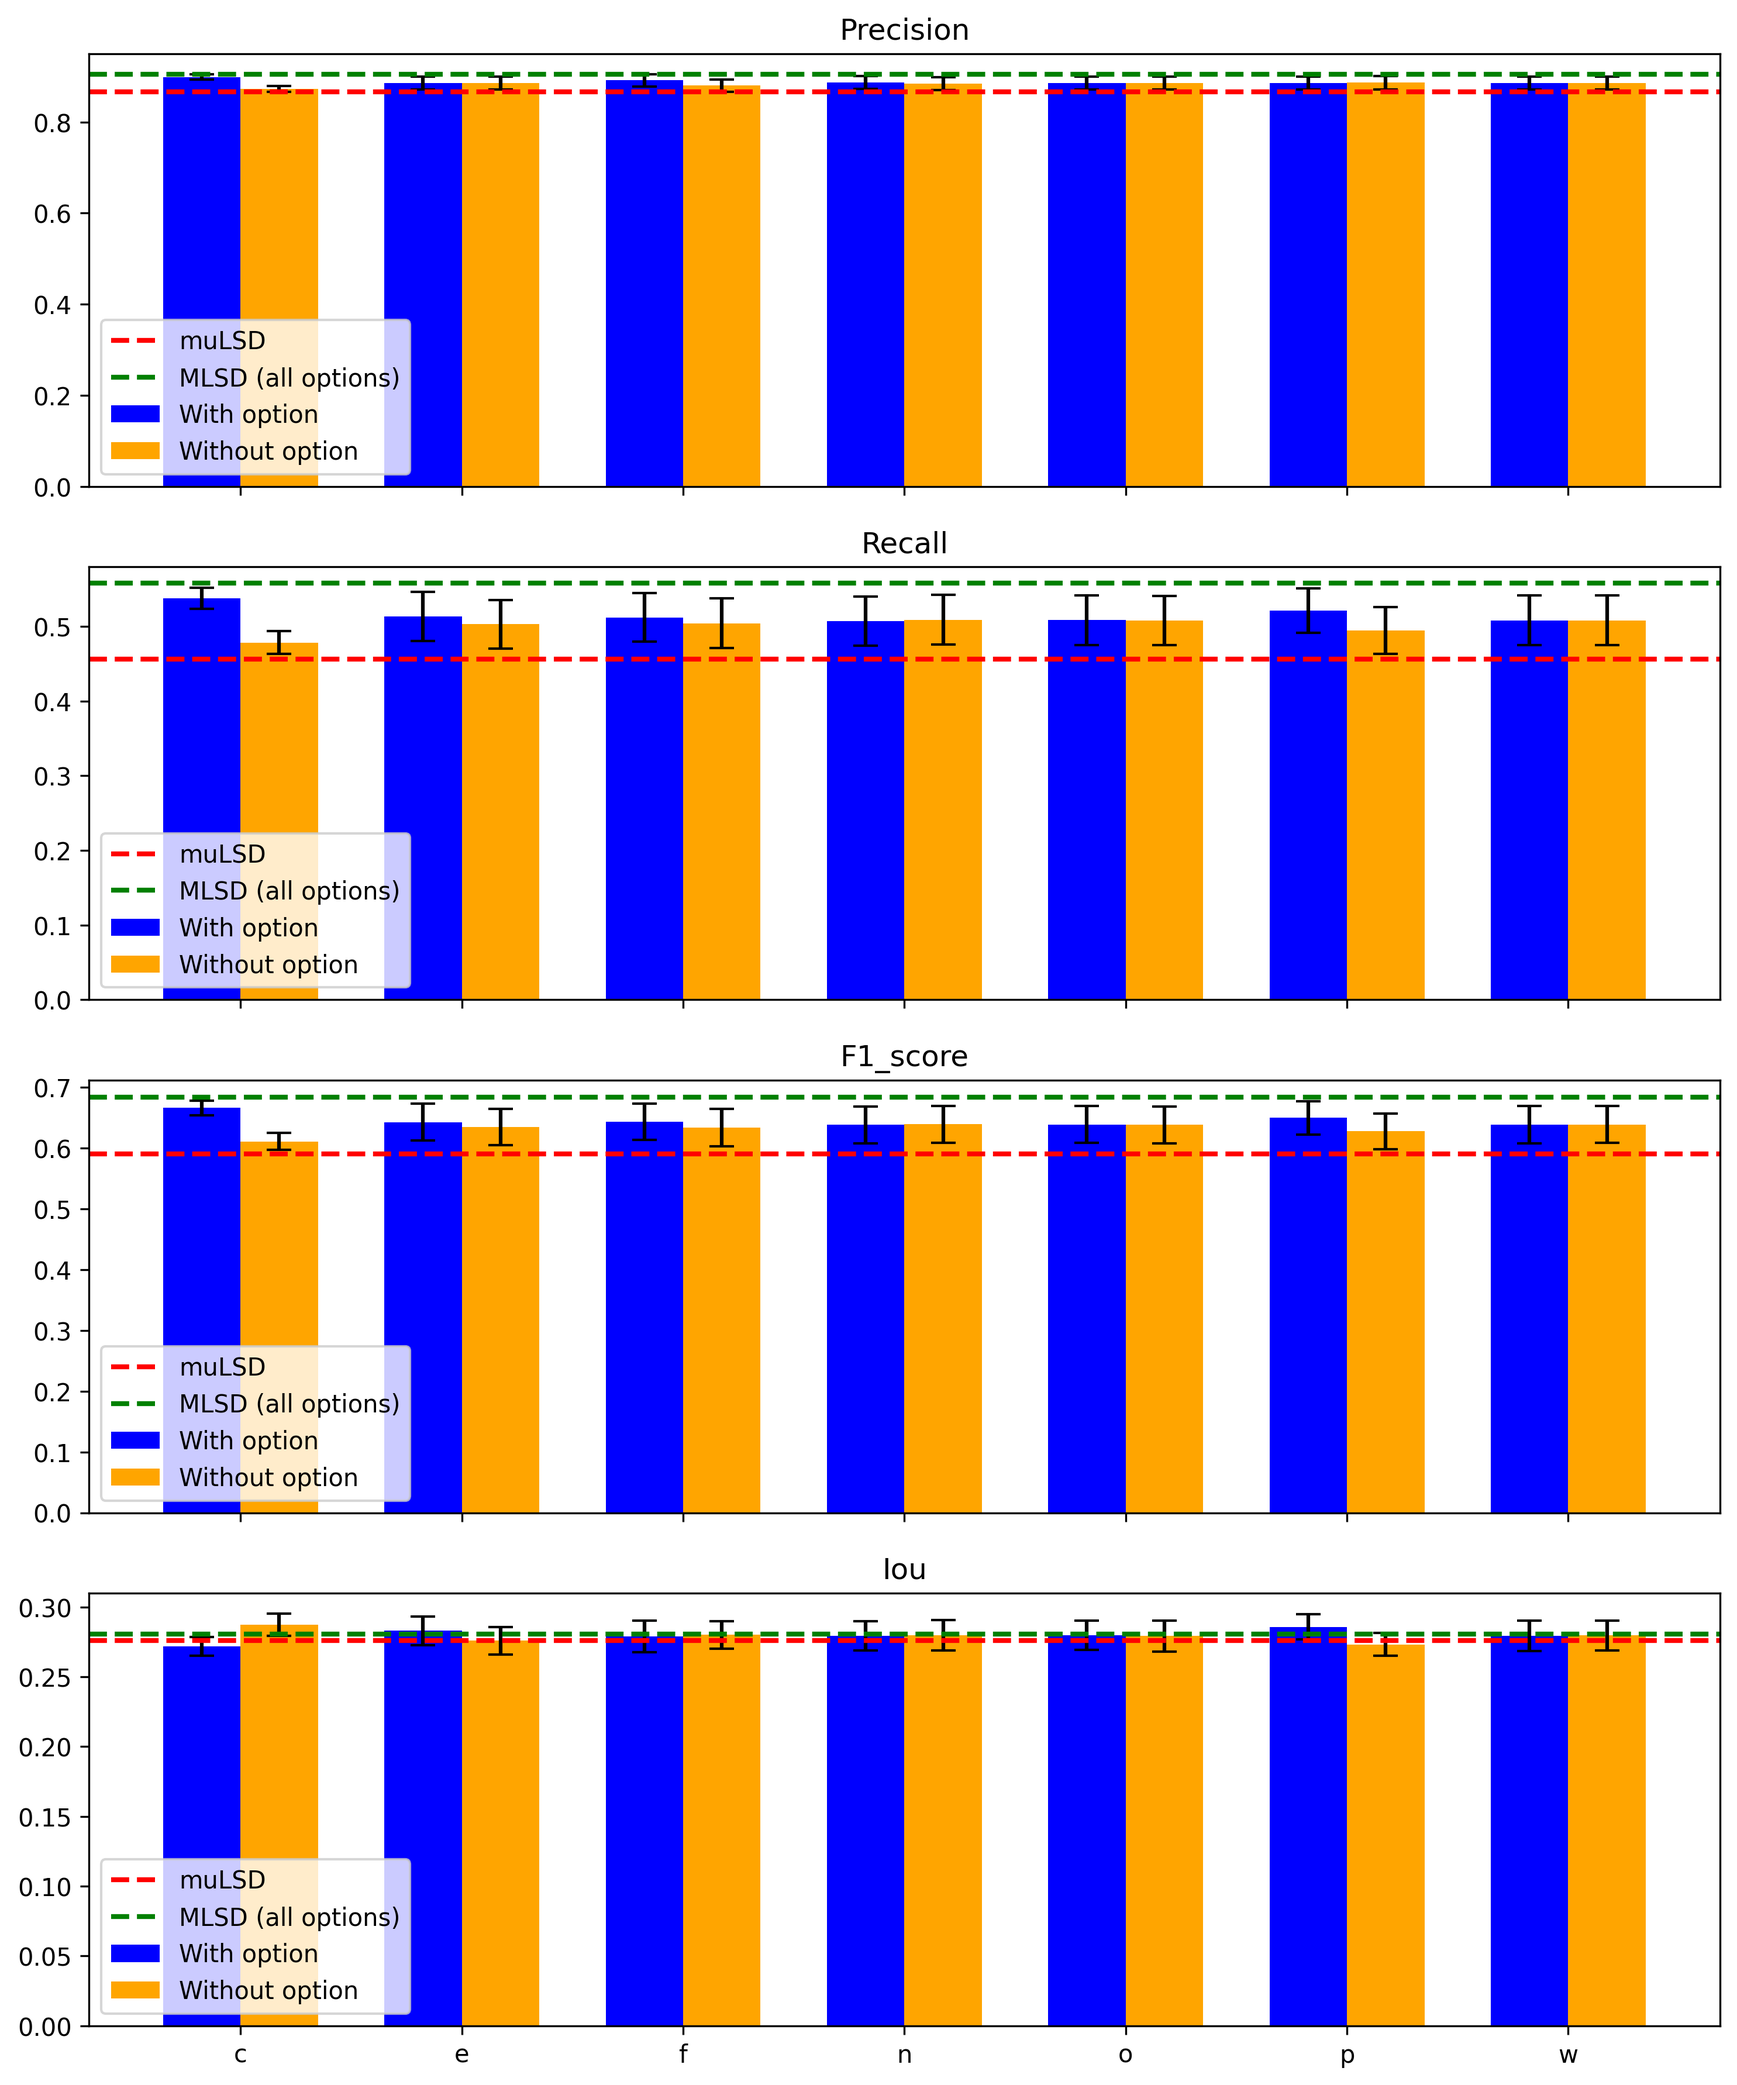
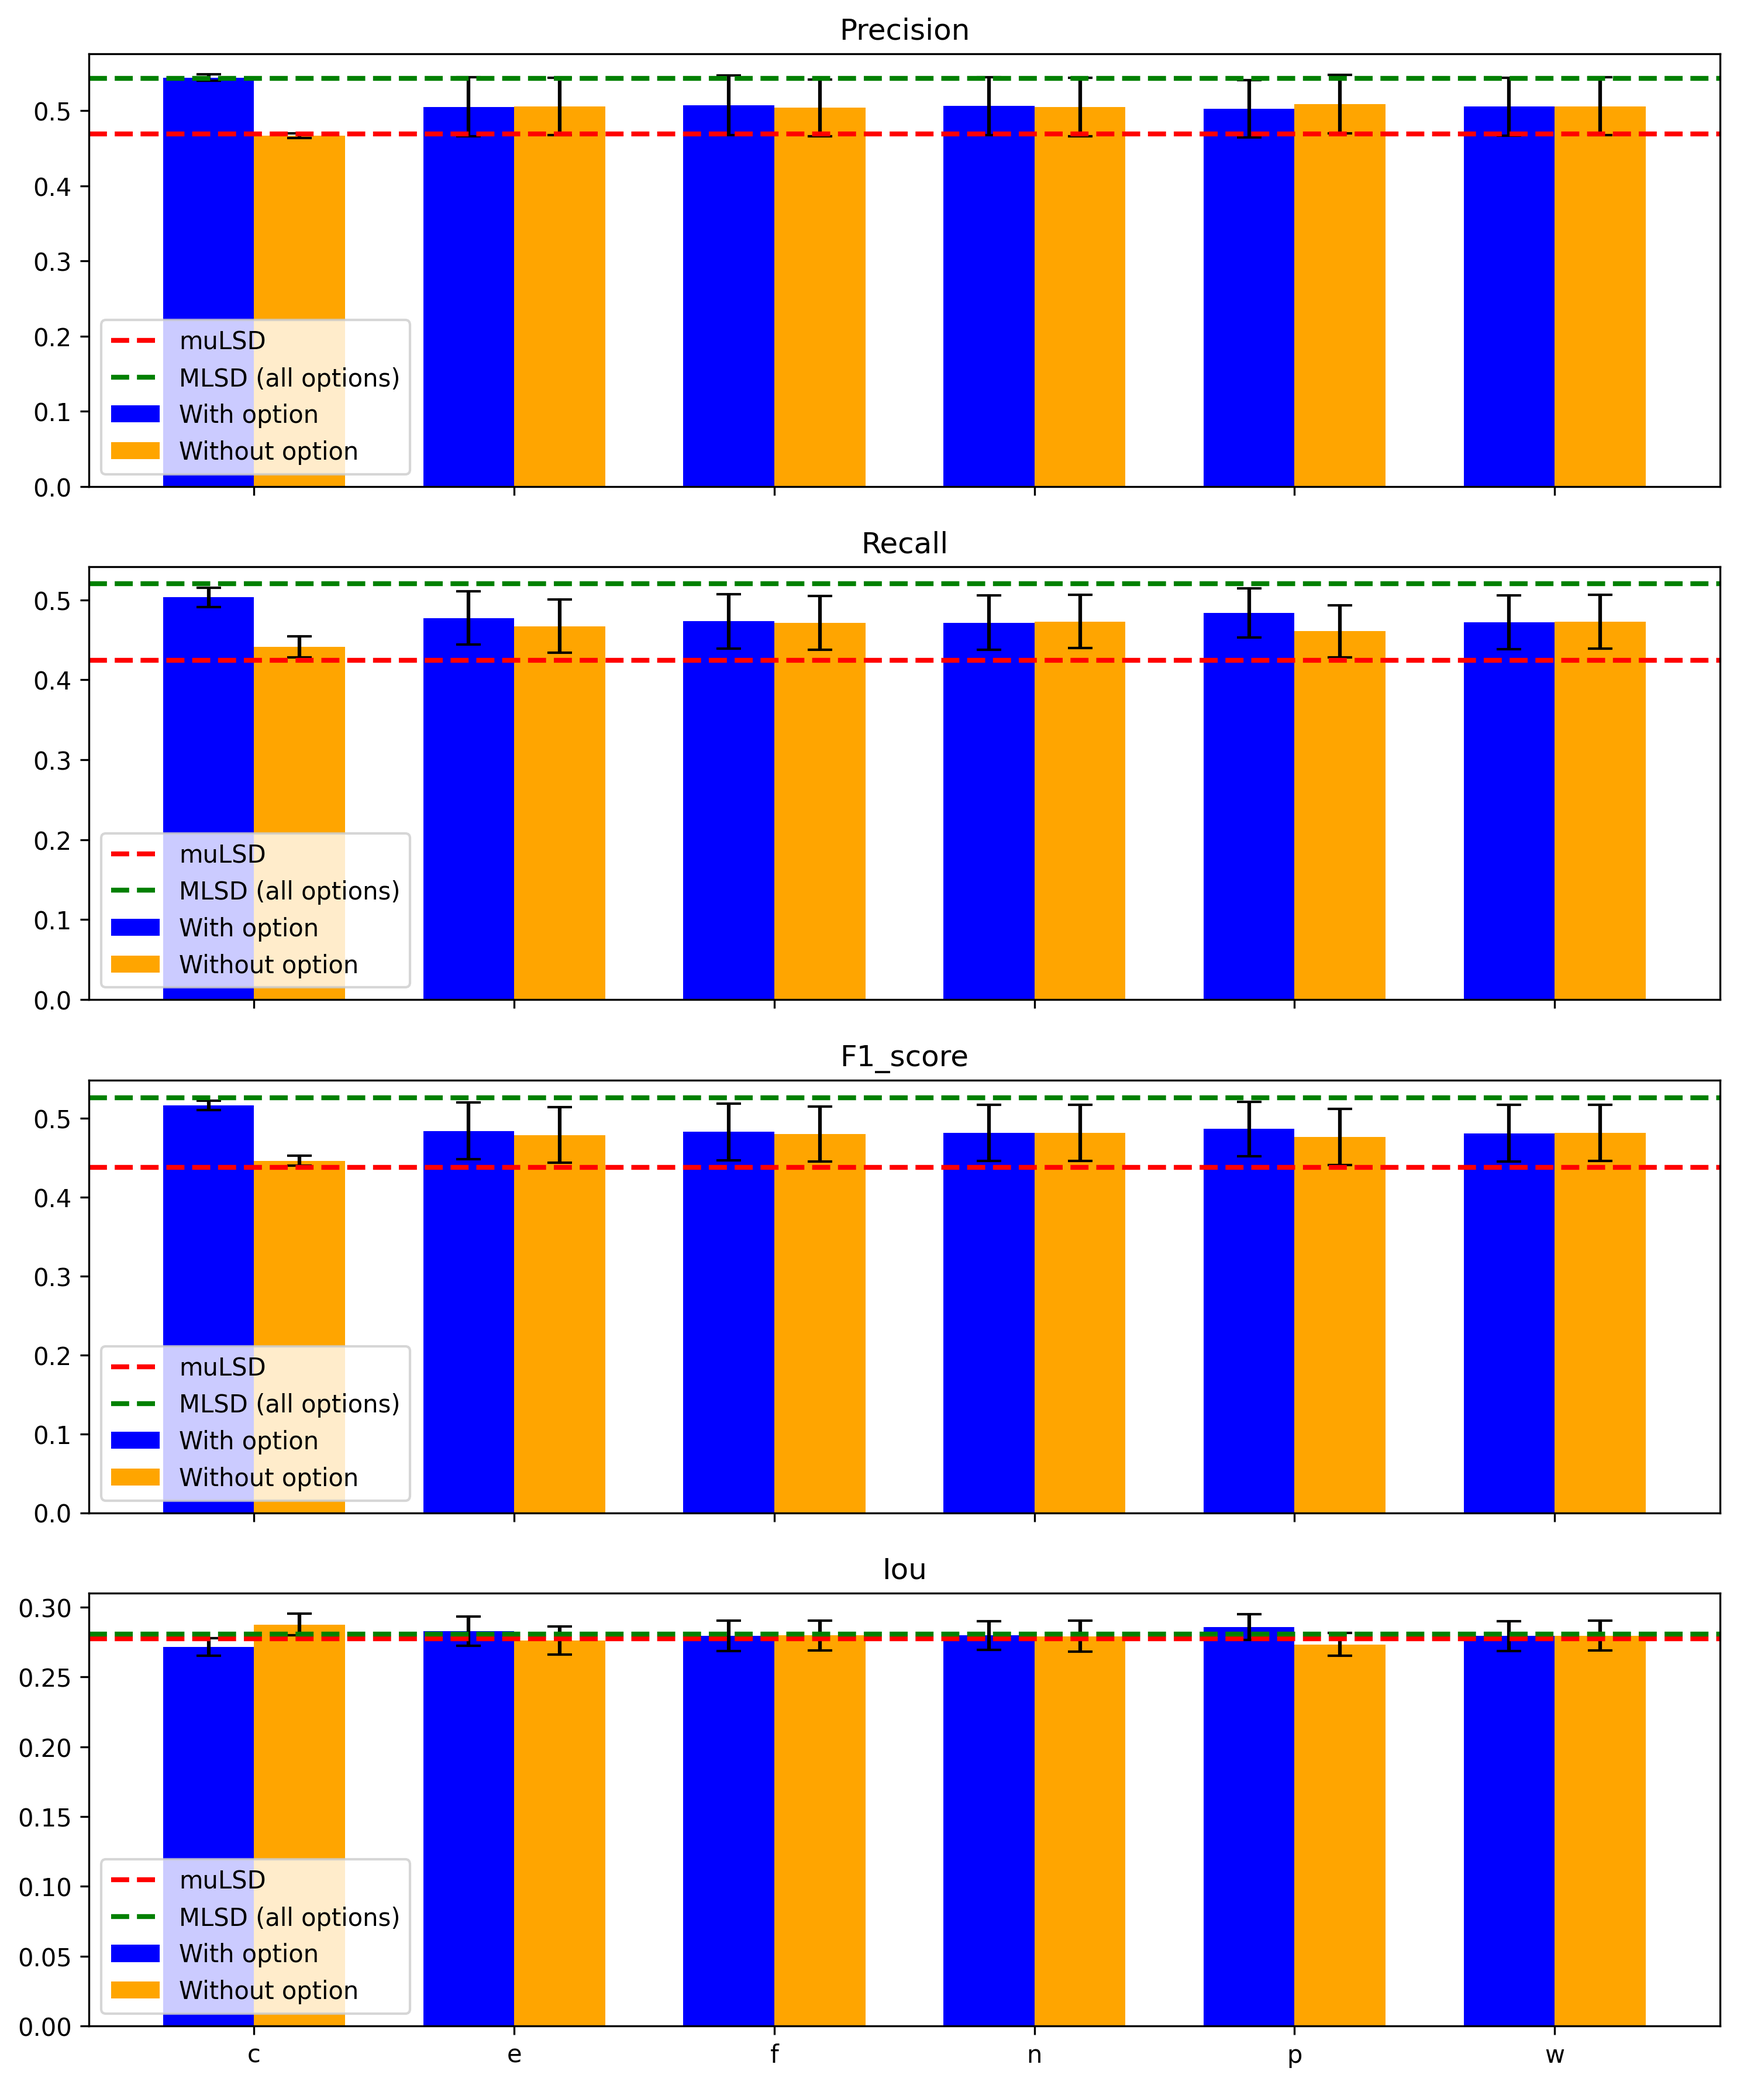
Enhance benchmark functionality by adding support for option 't' with numeric values, updating related scripts and configurations. Include new plotting for 't' values and modify README for clarity.

diff --git a/eval.py b/eval.py
@@ -6,7 +6,7 @@ import matplotlib.pyplot as plt
 from matplotlib.ticker import AutoMinorLocator
 import numpy as np
 
-from config import PATH_CURRENT_FOLDER  # type: ignore
+from config import OPTIONS, PATH_CURRENT_FOLDER  # type: ignore
 from loguru import logger
 
 from models import BenchmarkScore, Scores, ImageScores  # type: ignore
@@ -243,8 +243,10 @@ def plot_benchmark_ranges(benchmarks: list[BenchmarkScore]) -> None:
     fig.patch.set_facecolor("white")  # Set background to white
     plt.subplots_adjust(wspace=0.3, left=0.05, right=0.95, top=0.9, bottom=0.3)
 
-    # Collect average scores
-    avg_scores_dict = {bm.options: bm.average_scores() for bm in benchmarks}
+    # Collect average scores (we exclude 't' options here)
+    avg_scores_dict = {
+        bm.options: bm.average_scores() for bm in benchmarks if "t" not in bm.options
+    }
 
     for idx, metric in enumerate(metrics):
         ax = axes[idx]
@@ -428,8 +430,11 @@ def analyze_option_effects(benchmarks: list[BenchmarkScore]) -> None:
     unique_options_set = set[str]()
     for bm in benchmarks:
         unique_options_set.update(bm.options)
-    unique_options_list = sorted(unique_options_set)
-    logger.info(f"Unique options found: {unique_options_list}")
+    unique_option_letters_list = [
+        x for x in sorted(unique_options_set) if x in OPTIONS
+    ]  # Exclude t options
+
+    logger.info(f"Unique options found: {unique_option_letters_list}")
 
     # For each option, separate benchmarks into "with" and "without"
     metrics = ["precision", "recall", "f1_score", "iou"]
@@ -443,8 +448,10 @@ def analyze_option_effects(benchmarks: list[BenchmarkScore]) -> None:
             mulsd_scores = bm.average_scores()
             break
 
-    for option in unique_options_list:
+    for option in unique_option_letters_list:
         for bm in benchmarks:
+            if bm.options.startswith("t"):
+                continue  # Skip t options
             avg_scores = bm.average_scores()
             has_option = option in bm.options
             for metric in metrics:
@@ -458,7 +465,7 @@ def analyze_option_effects(benchmarks: list[BenchmarkScore]) -> None:
 
     # Compute mean and std for each option and metric
     summary: dict[str, dict[str, float | None]] = {}
-    for option in unique_options_list:
+    for option in unique_option_letters_list:
         summary[option] = {}
         for metric in metrics:
             with_values = results[option].get(f"{metric}_with", [])
@@ -489,7 +496,7 @@ def analyze_option_effects(benchmarks: list[BenchmarkScore]) -> None:
     # Plot results
     fig, axes = plt.subplots(len(metrics), 1, figsize=(10, 12), sharex=True)
     # Find MLSD: benchmark with all options activated
-    all_options_str = "".join(unique_options_list)
+    all_options_str = "".join(unique_option_letters_list)
     mlsd_scores: Scores | None = None
     for bm in benchmarks:
         if bm.options == all_options_str:
@@ -498,9 +505,9 @@ def analyze_option_effects(benchmarks: list[BenchmarkScore]) -> None:
 
     for i, metric in enumerate(metrics):
         ax = axes[i]
-        x = np.arange(len(unique_options_list))
+        x = np.arange(len(unique_option_letters_list))
         width = 0.35
-        for j, option in enumerate(unique_options_list):
+        for j, option in enumerate(unique_option_letters_list):
             with_mean = summary[option][f"{metric}_with_mean"]
             with_std = summary[option][f"{metric}_with_std"]
             without_mean = summary[option][f"{metric}_without_mean"]
@@ -550,7 +557,7 @@ def analyze_option_effects(benchmarks: list[BenchmarkScore]) -> None:
 
         ax.set_title(metric.capitalize())
         ax.set_xticks(x)
-        ax.set_xticklabels(unique_options_list)
+        ax.set_xticklabels(unique_option_letters_list)
         ax.legend()
     plt.tight_layout()
     out_file = "option_effects.png"
@@ -567,7 +574,9 @@ def plot_wilcoxon_results(
     unique_options_set = set[str]()
     for bm in benchmarks:
         unique_options_set.update(bm.options)
-    unique_options_list = sorted(unique_options_set)
+    unique_options_list = [
+        x for x in sorted(unique_options_set) if "t" not in x
+    ]  # Exclude t options
 
     metrics = ["precision", "recall", "f1_score", "iou"]
     p_values_dict: dict[str, dict[str, float]] = {metric: {} for metric in metrics}
@@ -599,16 +608,50 @@ def plot_wilcoxon_results(
     logger.success(f"Saved Wilcoxon p-values figure to {output_file}")
 
 
+def plot_scores_for_t_values(
+    benchmarks: list[BenchmarkScore], output_file: str = "t_values.png"
+) -> None:
+    """
+    Plot scores for different 't' values.
+    """
+    scores = {}
+    for bm in benchmarks:
+        if bm.options.startswith("t"):
+            t_value = bm.options[1:]  # Extract t value
+            avg_scores: Scores = bm.average_scores()
+            scores[t_value] = avg_scores
+
+    fig, ax = plt.subplots(figsize=(10, 6))
+    t_values = sorted(scores.keys(), key=lambda x: int(x))
+    precisions = [scores[t].precision for t in t_values]
+    recalls = [scores[t].recall for t in t_values]
+    f1_scores = [scores[t].f1_score for t in t_values]
+    ious = [scores[t].iou for t in t_values]
+    ax.plot(t_values, precisions, marker="o", label="Precision")
+    ax.plot(t_values, recalls, marker="o", label="Recall")
+    ax.plot(t_values, f1_scores, marker="o", label="F1-Score")
+    ax.plot(t_values, ious, marker="o", label="IoU")
+
+    ax.set_title("Scores for Different 't' Values")
+    ax.set_xlabel("Value of t in degrees")
+    ax.set_ylabel("Score")
+    ax.legend()
+    plt.tight_layout()
+    plt.savefig(output_file, dpi=300, bbox_inches="tight")
+    logger.success(f"Saved 't' values figure to {output_file}")
+
+
 if __name__ == "__main__":
     all_benchmark_scores = extract_scores_from_benchmarks()
     logger.info(f"Number of average scores: {len(all_benchmark_scores)}")
     plot_benchmark_ranges(all_benchmark_scores)
     analyze_option_effects(all_benchmark_scores)
     plot_wilcoxon_results(all_benchmark_scores)
+    plot_scores_for_t_values(all_benchmark_scores)
 
     # Compare max and min benchmarks for 4 metrics
     diff_scores = compare_benchmarks(
-        options1="", options2="cfo", benchmarks=all_benchmark_scores
+        options1="", options2="cf", benchmarks=all_benchmark_scores
     )
     if diff_scores is None:
         logger.error("Could not compare benchmarks.")

diff --git a/build_benchmark.py b/build_benchmark.py
@@ -254,7 +254,9 @@ def setup_benchmark_environment() -> None:
     clean_working_directory()
 
 
-def modify_makefile_for_options(benchmark_folder: str, options: set[str]) -> None:
+def modify_makefile_for_options(
+    benchmark_folder: str, options: set[str] | dict[str, int]
+) -> None:
     """
     Modifie le Makefile pour passer les options au script C++.
     """
@@ -264,11 +266,15 @@ def modify_makefile_for_options(benchmark_folder: str, options: set[str]) -> Non
         return
 
     # Filter empty options
-    filtered_options = [opt for opt in options if opt]
-    if filtered_options:
-        options_str = "-" + "".join(sorted(filtered_options))
+    if type(options) is dict:
+        option_value = options["t"]
+        options_str = f"-t {option_value}"
     else:
-        options_str = ""
+        filtered_options = [opt for opt in options if opt]
+        if filtered_options:
+            options_str = "-" + "".join(sorted(filtered_options))
+        else:
+            options_str = ""
 
     # Load Makefile
     with open(makefile_path, "r") as f:
@@ -297,15 +303,33 @@ def modify_makefile_for_options(benchmark_folder: str, options: set[str]) -> Non
     logger.info(f"Makefile modified for options: {options_str}")
 
 
-def create_specialized_benchmark(options: set[str]) -> None:
+def create_option_t_benchmarks(begin_value: int, end_value: int) -> None:
+    """
+    Create specialized benchmark folders for option 't' enabled and disabled.
+    We call option 't' with a numeric value.
+    Create benchmark folders for each value in the specified range.
+    """
+    for value in range(begin_value, end_value + 1):
+        create_specialized_benchmark(options={"t": value})
+
+
+def create_specialized_benchmark(options: set[str] | dict[str, int]) -> None:
     """
     Create a specialized benchmark folder based on the provided options.
     This is where we will run and store MuLSD results on benchmark
     """
-    options_string: str = "".join(sorted(options))
+    if type(options) is dict:
+        options_string = f"t{options['t']}"
+    else:
+        options_string = "".join(sorted(options))
     specialized_benchmark_folder: str = str(
         Path(PATH_CURRENT_FOLDER) / Path(f"benchmark_{options_string}")
     )
+    if os.path.isdir(specialized_benchmark_folder):
+        logger.info(
+            f"Specialized benchmark folder already exists: {specialized_benchmark_folder}"
+        )
+        return
     shutil.copytree(
         src=PATH_BENCHMARK_FOLDER,
         dst=specialized_benchmark_folder,

diff --git a/main.py b/main.py
@@ -4,17 +4,14 @@ import os
 import subprocess
 import sys
 from loguru import logger
-from build_benchmark import create_specialized_benchmark, setup_benchmark_environment  # type: ignore
+from build_benchmark import (  # type: ignore
+    create_specialized_benchmark,
+    setup_benchmark_environment,
+    create_option_t_benchmarks,
+)  # type: ignore
 import argparse
 
-OPTIONS = {
-    "n",
-    "p",
-    "f",
-    "c",
-    "e",
-    "w",
-}
+from config import OPTIONS  # type: ignore
 
 
 def get_list_combination(
@@ -132,6 +129,14 @@ def main():
 
         all_combinations = get_list_combination(OPTIONS)
         logger.info(f"Number of combinations: {len(all_combinations)}")
+        create_option_t_benchmarks(begin_value=15, end_value=60)
+
+        for value in range(15, 61):
+            benchmark_folder = f"benchmark_t{value}"
+            create_specialized_benchmark(options={"t": value})
+            logger.info(f"Running benchmark for option -t {value}")
+            run_benchmark_in_folder(benchmark_folder)
+
         for options in all_combinations:
             options_str = "".join(sorted(options))
             benchmark_folder = f"benchmark_{options_str}"

diff --git a/config.py b/config.py
@@ -4,3 +4,15 @@ from pathlib import Path
 PATH_CURRENT_FOLDER: str = os.path.abspath(os.getcwd())
 PATH_BENCHMARK_FOLDER: str = str(Path(PATH_CURRENT_FOLDER) / Path("benchmark"))
 PATH_IMAGES_FOLDER: str = str(Path(PATH_CURRENT_FOLDER) / Path("images"))
+
+BEGIN_T_VALUE: int = 15
+END_T_VALUE: int = 60
+
+OPTIONS = {
+    "n",
+    "p",
+    "f",
+    "c",
+    "e",
+    "w",
+}

diff --git a/README.md b/README.md
@@ -32,18 +32,16 @@ uv sync
 
    - Downloads the York Urban Dataset.
    - Converts it into a structured benchmark folder.
-   - Creates one benchmark per selected options, putting a `Makefile` inside.
+   - Creates one benchmark folder per selected options, putting a `Makefile` inside.
 
 2. Call muLSD on all images with: **`main.py`**
 
    - Lists all possible combinations of ablation options.
    - For each combination:
-
      - Creates a specialized benchmark folder.
      - Runs the benchmark using `make`.
 
 3. Compute the metrics and run tests on results with: **`eval.py`**
-
    - Run it inside `ablation_tests` folder after creating `benchmark_*` folders.
    - Extract scores from benchmark
    - Compute averages on combinations or on images
